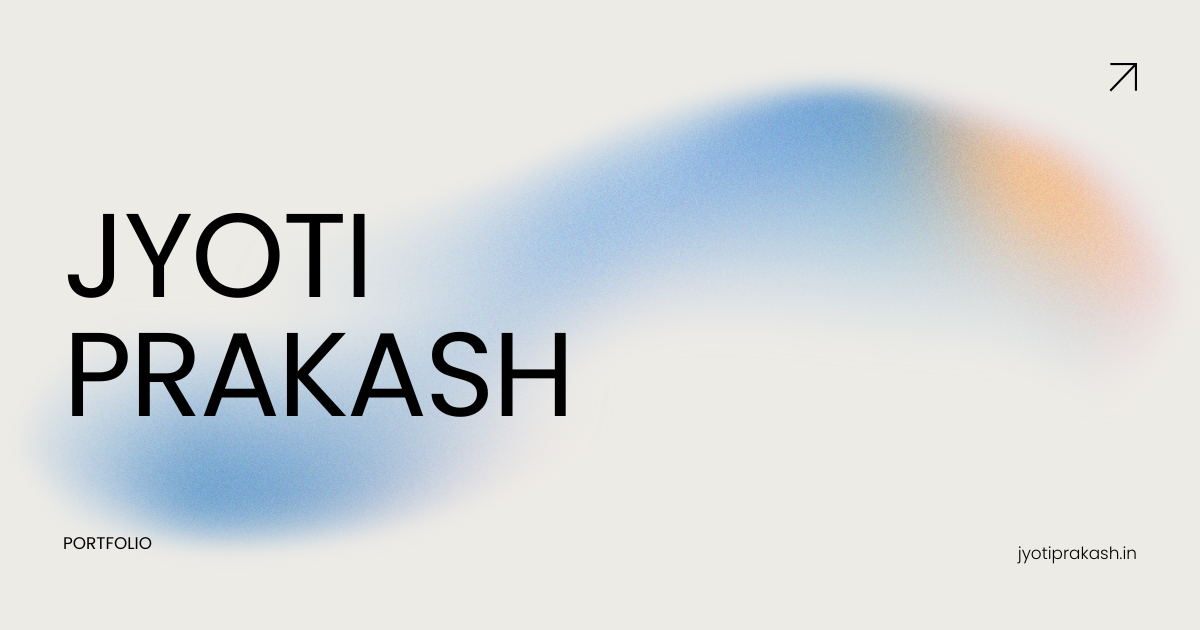
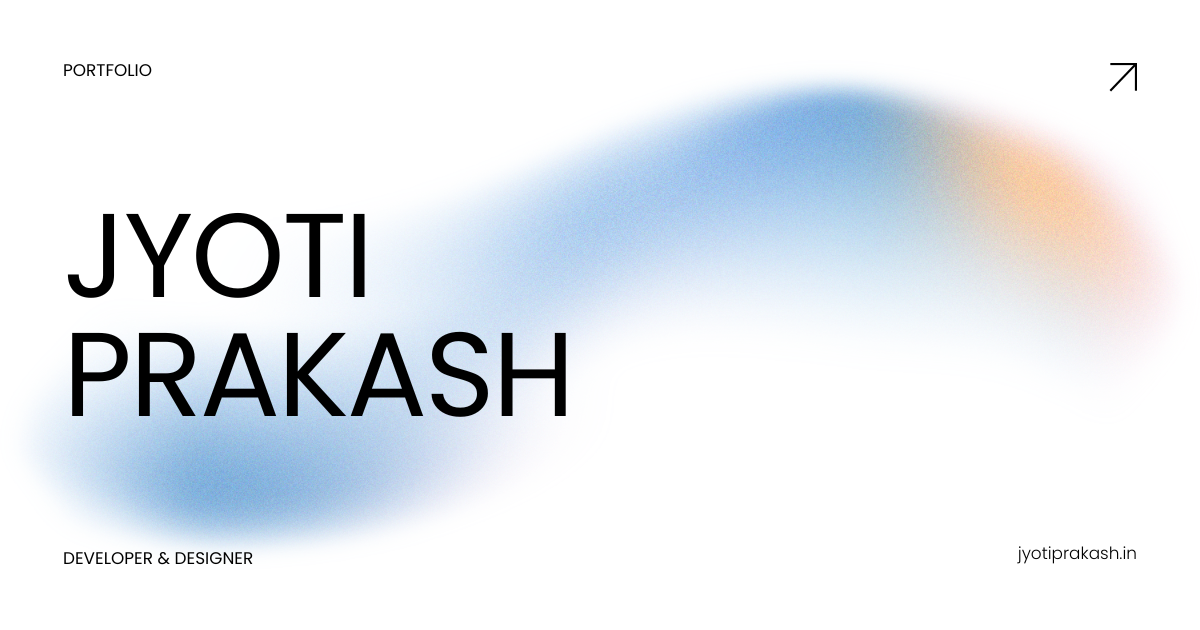
fix: update theme and apiversion

diff --git a/src/app/globals.css b/src/app/globals.css
@@ -109,99 +109,99 @@
 
 @layer base {
   :root {
-    --background: 55.0000 30.0000% 92.1569%;
-    --foreground: 15 7.8431% 20%;
-    --card: 55.0000 30.0000% 92.1569%;
-    --card-foreground: 15 7.8431% 20%;
+    --background: 0 0% 97.6471%;
+    --foreground: 0 0% 6.6667%;
+    --card: 0 0% 100%;
+    --card-foreground: 0 0% 6.6667%;
     --popover: 0 0% 100%;
-    --popover-foreground: 15 7.8431% 20%;
-    --primary: 18.0952 25.5061% 51.5686%;
-    --primary-foreground: 0 0% 100%;
-    --secondary: 37.5000 6.9565% 54.9020%;
-    --secondary-foreground: 0 0% 100%;
-    --muted: 20.4545 44.8980% 80.7843%;
-    --muted-foreground: 14.4000 11.9617% 40.9804%;
-    --accent: 20.4545 44.8980% 80.7843%;
-    --accent-foreground: 15 7.8431% 20%;
-    --destructive: 22.5000 14.8148% 10.5882%;
-    --destructive-foreground: 0 0% 100%;
-    --border: 37.5000 6.9565% 54.9020%;
-    --input: 37.5000 6.9565% 54.9020%;
-    --ring: 18.0952 25.5061% 51.5686%;
-    --chart-1: 18.0952 25.5061% 51.5686%;
-    --chart-2: 14.4000 11.9617% 40.9804%;
-    --chart-3: 22.3729 32.9609% 64.9020%;
-    --chart-4: 37.5000 6.9565% 54.9020%;
-    --chart-5: 22.3256 18.7773% 55.0980%;
-    --sidebar: 20.6250 44.4444% 85.8824%;
-    --sidebar-foreground: 15 7.8431% 20%;
-    --sidebar-primary: 18.0952 25.5061% 51.5686%;
-    --sidebar-primary-foreground: 0 0% 100%;
-    --sidebar-accent: 22.3729 32.9609% 64.9020%;
-    --sidebar-accent-foreground: 0 0% 100%;
-    --sidebar-border: 22.3256 18.7773% 55.0980%;
-    --sidebar-ring: 18.0952 25.5061% 51.5686%;
-    --font-sans: DM Sans, sans-serif;
-    --font-serif: Georgia, serif;
-    --font-mono: Menlo, monospace;
+    --popover-foreground: 0 0% 6.6667%;
+    --primary: 0 0% 6.6667%;
+    --primary-foreground: 0 0% 97.6471%;
+    --secondary: 0 0% 91.7647%;
+    --secondary-foreground: 0 0% 6.6667%;
+    --muted: 0 0% 94.1176%;
+    --muted-foreground: 0 0% 33.3333%;
+    --accent: 0 0% 91.7647%;
+    --accent-foreground: 0 0% 6.6667%;
+    --destructive: 358.0892 75.1196% 59.0196%;
+    --destructive-foreground: 0 0% 97.6471%;
+    --border: 0 0% 87.8431%;
+    --input: 0 0% 87.8431%;
+    --ring: 0 0% 6.6667%;
+    --chart-1: 0 0% 6.6667%;
+    --chart-2: 0 0% 33.3333%;
+    --chart-3: 0 0% 53.3333%;
+    --chart-4: 0 0% 73.3333%;
+    --chart-5: 0 0% 86.6667%;
+    --sidebar: 0 0% 94.1176%;
+    --sidebar-foreground: 0 0% 6.6667%;
+    --sidebar-primary: 0 0% 6.6667%;
+    --sidebar-primary-foreground: 0 0% 97.6471%;
+    --sidebar-accent: 0 0% 86.6667%;
+    --sidebar-accent-foreground: 0 0% 6.6667%;
+    --sidebar-border: 0 0% 87.8431%;
+    --sidebar-ring: 0 0% 6.6667%;
+    --font-sans: Inter, sans-serif;
+    --font-serif: Lora, serif;
+    --font-mono: Fira Code, monospace;
     --radius: 0.5rem;
-    --shadow-2xs: 2px 2px 0px 0px hsl(14.4000 11.9617% 40.9804% / 0.06);
-    --shadow-xs: 2px 2px 0px 0px hsl(14.4000 11.9617% 40.9804% / 0.06);
-    --shadow-sm: 2px 2px 0px 0px hsl(14.4000 11.9617% 40.9804% / 0.11), 2px 1px 2px -1px hsl(14.4000 11.9617% 40.9804% / 0.11);
-    --shadow: 2px 2px 0px 0px hsl(14.4000 11.9617% 40.9804% / 0.11), 2px 1px 2px -1px hsl(14.4000 11.9617% 40.9804% / 0.11);
-    --shadow-md: 2px 2px 0px 0px hsl(14.4000 11.9617% 40.9804% / 0.11), 2px 2px 4px -1px hsl(14.4000 11.9617% 40.9804% / 0.11);
-    --shadow-lg: 2px 2px 0px 0px hsl(14.4000 11.9617% 40.9804% / 0.11), 2px 4px 6px -1px hsl(14.4000 11.9617% 40.9804% / 0.11);
-    --shadow-xl: 2px 2px 0px 0px hsl(14.4000 11.9617% 40.9804% / 0.11), 2px 8px 10px -1px hsl(14.4000 11.9617% 40.9804% / 0.11);
-    --shadow-2xl: 2px 2px 0px 0px hsl(14.4000 11.9617% 40.9804% / 0.28);
+    --shadow-2xs: 0px 4px 8px -2px hsl(0 0% 0% / 0.03);
+    --shadow-xs: 0px 4px 8px -2px hsl(0 0% 0% / 0.03);
+    --shadow-sm: 0px 4px 8px -2px hsl(0 0% 0% / 0.05), 0px 1px 2px -3px hsl(0 0% 0% / 0.05);
+    --shadow: 0px 4px 8px -2px hsl(0 0% 0% / 0.05), 0px 1px 2px -3px hsl(0 0% 0% / 0.05);
+    --shadow-md: 0px 4px 8px -2px hsl(0 0% 0% / 0.05), 0px 2px 4px -3px hsl(0 0% 0% / 0.05);
+    --shadow-lg: 0px 4px 8px -2px hsl(0 0% 0% / 0.05), 0px 4px 6px -3px hsl(0 0% 0% / 0.05);
+    --shadow-xl: 0px 4px 8px -2px hsl(0 0% 0% / 0.05), 0px 8px 10px -3px hsl(0 0% 0% / 0.05);
+    --shadow-2xl: 0px 4px 8px -2px hsl(0 0% 0% / 0.13);
     --tracking-normal: 0em;
     --spacing: 0.25rem;
   }
 
   .dark {
-    --background: 22.5000 14.8148% 10.5882%;
-    --foreground: 55.0000 30.0000% 92.1569%;
-    --card: 20 15.3846% 15.2941%;
-    --card-foreground: 55.0000 30.0000% 92.1569%;
-    --popover: 20 15.3846% 15.2941%;
-    --popover-foreground: 55.0000 30.0000% 92.1569%;
-    --primary: 22.3729 32.9609% 64.9020%;
-    --primary-foreground: 22.5000 14.8148% 10.5882%;
-    --secondary: 14.4000 11.9617% 40.9804%;
-    --secondary-foreground: 55.0000 30.0000% 92.1569%;
-    --muted: 21.4286 13.2075% 20.7843%;
-    --muted-foreground: 21.4286 26.5823% 69.0196%;
-    --accent: 15 7.8431% 20%;
-    --accent-foreground: 55.0000 30.0000% 92.1569%;
-    --destructive: 0 68.6747% 67.4510%;
-    --destructive-foreground: 22.5000 14.8148% 10.5882%;
-    --border: 21.4286 13.2075% 20.7843%;
-    --input: 21.4286 13.2075% 20.7843%;
-    --ring: 22.3729 32.9609% 64.9020%;
-    --chart-1: 22.3729 32.9609% 64.9020%;
-    --chart-2: 37.5000 6.9565% 54.9020%;
-    --chart-3: 18.0952 25.5061% 51.5686%;
-    --chart-4: 14.4000 11.9617% 40.9804%;
-    --chart-5: 22.3256 18.7773% 55.0980%;
-    --sidebar: 24 14.2857% 6.8627%;
-    --sidebar-foreground: 55.0000 30.0000% 92.1569%;
-    --sidebar-primary: 22.3729 32.9609% 64.9020%;
-    --sidebar-primary-foreground: 24 14.2857% 6.8627%;
-    --sidebar-accent: 15 7.8431% 20%;
-    --sidebar-accent-foreground: 55.0000 30.0000% 92.1569%;
-    --sidebar-border: 20 15.3846% 15.2941%;
-    --sidebar-ring: 22.3729 32.9609% 64.9020%;
-    --font-sans: DM Sans, sans-serif;
-    --font-serif: Georgia, serif;
-    --font-mono: Menlo, monospace;
+    --background: 0 0% 6.6667%;
+    --foreground: 0 0% 97.6471%;
+    --card: 0 0% 9.8039%;
+    --card-foreground: 0 0% 97.6471%;
+    --popover: 0 0% 9.8039%;
+    --popover-foreground: 0 0% 97.6471%;
+    --primary: 0 0% 97.6471%;
+    --primary-foreground: 0 0% 6.6667%;
+    --secondary: 0 0% 16.4706%;
+    --secondary-foreground: 0 0% 97.6471%;
+    --muted: 0 0% 13.3333%;
+    --muted-foreground: 0 0% 66.6667%;
+    --accent: 0 0% 16.4706%;
+    --accent-foreground: 0 0% 97.6471%;
+    --destructive: 358.0892 75.1196% 59.0196%;
+    --destructive-foreground: 0 0% 6.6667%;
+    --border: 0 0% 20%;
+    --input: 0 0% 20%;
+    --ring: 0 0% 97.6471%;
+    --chart-1: 0 0% 97.6471%;
+    --chart-2: 0 0% 66.6667%;
+    --chart-3: 0 0% 53.3333%;
+    --chart-4: 0 0% 33.3333%;
+    --chart-5: 0 0% 20%;
+    --sidebar: 0 0% 9.8039%;
+    --sidebar-foreground: 0 0% 97.6471%;
+    --sidebar-primary: 0 0% 97.6471%;
+    --sidebar-primary-foreground: 0 0% 6.6667%;
+    --sidebar-accent: 0 0% 20%;
+    --sidebar-accent-foreground: 0 0% 97.6471%;
+    --sidebar-border: 0 0% 16.4706%;
+    --sidebar-ring: 0 0% 97.6471%;
+    --font-sans: Inter, sans-serif;
+    --font-serif: Lora, serif;
+    --font-mono: Fira Code, monospace;
     --radius: 0.5rem;
-    --shadow-2xs: 2px 2px 0px 0px hsl(0 0% 0% / 0.06);
-    --shadow-xs: 2px 2px 0px 0px hsl(0 0% 0% / 0.06);
-    --shadow-sm: 2px 2px 0px 0px hsl(0 0% 0% / 0.11), 2px 1px 2px -1px hsl(0 0% 0% / 0.11);
-    --shadow: 2px 2px 0px 0px hsl(0 0% 0% / 0.11), 2px 1px 2px -1px hsl(0 0% 0% / 0.11);
-    --shadow-md: 2px 2px 0px 0px hsl(0 0% 0% / 0.11), 2px 2px 4px -1px hsl(0 0% 0% / 0.11);
-    --shadow-lg: 2px 2px 0px 0px hsl(0 0% 0% / 0.11), 2px 4px 6px -1px hsl(0 0% 0% / 0.11);
-    --shadow-xl: 2px 2px 0px 0px hsl(0 0% 0% / 0.11), 2px 8px 10px -1px hsl(0 0% 0% / 0.11);
-    --shadow-2xl: 2px 2px 0px 0px hsl(0 0% 0% / 0.28);
+    --shadow-2xs: 0px 5px 10px -3px hsl(0 0% 0% / 0.10);
+    --shadow-xs: 0px 5px 10px -3px hsl(0 0% 0% / 0.10);
+    --shadow-sm: 0px 5px 10px -3px hsl(0 0% 0% / 0.20), 0px 1px 2px -4px hsl(0 0% 0% / 0.20);
+    --shadow: 0px 5px 10px -3px hsl(0 0% 0% / 0.20), 0px 1px 2px -4px hsl(0 0% 0% / 0.20);
+    --shadow-md: 0px 5px 10px -3px hsl(0 0% 0% / 0.20), 0px 2px 4px -4px hsl(0 0% 0% / 0.20);
+    --shadow-lg: 0px 5px 10px -3px hsl(0 0% 0% / 0.20), 0px 4px 6px -4px hsl(0 0% 0% / 0.20);
+    --shadow-xl: 0px 5px 10px -3px hsl(0 0% 0% / 0.20), 0px 8px 10px -4px hsl(0 0% 0% / 0.20);
+    --shadow-2xl: 0px 5px 10px -3px hsl(0 0% 0% / 0.50);
   }
 }
 

diff --git a/src/components/about.tsx b/src/components/about.tsx
@@ -23,7 +23,7 @@ export default async function About() {
     const personalInfo: PersonalInfo = await client.fetch(personalInfoQuery);
 
     if (!personalInfo) {
-        return <div>Personal information not found.</div>;
+        return <div>Umm Sorry something went wrong...</div>;
     }
 
     return (
@@ -33,8 +33,8 @@ export default async function About() {
                     className="absolute inset-[-2rem] z-[-1] dark:hidden -translate-x-6"
                     style={{
                         backgroundImage: `
-                                    linear-gradient(to right,rgb(212, 210, 205) 1px, transparent 1px),
-                                    linear-gradient(to bottom,rgb(212, 210, 205) 1px, transparent 1px)
+                                    linear-gradient(to right,rgb(187, 187, 187) 1px, transparent 1px),
+                                    linear-gradient(to bottom,rgb(187, 187, 187) 1px, transparent 1px)
                                 `,
                         backgroundSize: "32px 32px",
                         WebkitMaskImage:
@@ -47,8 +47,8 @@ export default async function About() {
                     className="absolute inset-[-2rem] z-[-1] hidden dark:block"
                     style={{
                         backgroundImage: `
-                                    linear-gradient(to right, #56453F 1px, transparent 1px),
-                                    linear-gradient(to bottom, #56453F 1px, transparent 1px)
+                                    linear-gradient(to right,rgb(66, 66, 66) 1px, transparent 1px),
+                                    linear-gradient(to bottom,rgb(66, 66, 66) 1px, transparent 1px)
                                 `,
                         backgroundSize: "32px 32px",
                         WebkitMaskImage:
@@ -60,15 +60,15 @@ export default async function About() {
                 <div className="flex flex-col md:flex-row items-start justify-between gap-8">
                     {/* Text content on the left */}
                     <div className="text-left">
-                        <h1 className="text-4xl font-bold text-accent-foreground">{personalInfo.name}</h1>
-                        <p className="mt-1 text-lg text-muted-foreground">{personalInfo.designation}</p>
+                        <h1 className="text-5xl text-accent-foreground">{personalInfo.name}</h1>
+                        <p className="mt-1 text-xl text-muted-foreground">{personalInfo.designation}</p>
                         <p className="text-sm text-muted-foreground">{personalInfo.address}</p>
                     </div>
 
                     {/* Profile picture section on the right */}
                     {personalInfo.profilePic && (
                         <div className="relative mt-4 md:mt-0 flex-shrink-0 hidden md:block">
-                            <div className="w-16 h-16 md:w-20 md:h-20 rounded-lg overflow-hidden border-2 border-accent-foreground/10 hover:border-accent-foreground/30 transition-all duration-300">
+                            <div className="w-16 h-16 md:w-24 md:h-24 -mt-2 rounded-lg overflow-hidden border-2 border-accent-foreground/10 hover:border-accent-foreground/30 transition-all duration-300 grayscale-[50%] hover:grayscale-0">
                                 <Image
                                     src={urlFor(personalInfo.profilePic).url()}
                                     alt={personalInfo.name}
@@ -83,7 +83,7 @@ export default async function About() {
             </div>
 
             {/* Rest of your component */}
-            <div className="prose max-w-none text-sm text-accent-foreground mt-6"> {/* Increased margin-top */}
+            <div className="prose max-w-none text-base text-muted-foreground mt-6"> {/* Increased margin-top */}
                 <PortableText value={personalInfo.description} />
             </div>
 

diff --git a/src/components/projects.tsx b/src/components/projects.tsx
@@ -32,16 +32,16 @@ export default async function Projects() {
 
     return (
         <section className="py-6" id="projects">
-            <h2 className="text-2xl font-bold mb-4 text-foreground">Projects</h2>
+            <h2 className="text-4xl font-medium mb-4 text-foreground">Projects</h2>
             <div className="space-y-4">
                 {projects.map((project) => (
                     <div 
                         key={project._id}
-                        className="border rounded-lg p-4 hover:shadow-sm transition-shadow duration-200 border-border"
+                        className="border-b py-4 hover:shadow-sm transition-shadow duration-200 border-border"
                     >
-                        <div className="flex flex-col gap-2">
+                        <div className="flex flex-col gap-1">
                             <div className="flex items-center gap-2">
-                                <h3 className="text-lg font-semibold text-foreground">
+                                <h3 className="text-lg font-base text-foreground">
                                     {project.title}
                                 </h3>
                                 {project.featured && (
@@ -75,7 +75,7 @@ export default async function Projects() {
                         </div>
 
                         {/* 3. Improved Links with Group Hover Effect */}
-                        <div className="mt-3 flex gap-4 text-xs">
+                        <div className="mt-6 flex gap-4 text-xs">
                             {project.github && (
                                 <a
                                     href={project.github}

diff --git a/src/components/experiences.tsx b/src/components/experiences.tsx
@@ -28,17 +28,17 @@ export default async function Experiences() {
 
     return (
         <section className="py-8 flex flex-col justify-center min-h-[calc(100vh-11rem)]" id="experiences">
-            <h2 className="text-2xl font-bold mb-6 text-foreground">Experience</h2>
+            <h2 className="text-4xl font-medium mb-6 text-foreground">Experience</h2>
             <div className="space-y-6">
                 {experiences.map((exp) => (
                     <div
                         key={exp._id}
-                        className="hover:shadow-sm transition-shadow duration-200"
+                        className="border-b py-4 transition-shadow duration-200 border-border"
                     >
                         <div className="flex items-start">
                             <div className="flex-1">
                                 <div className="flex flex-col sm:flex-row sm:items-center sm:justify-between gap-1">
-                                    <h3 className="text-lg font-semibold text-foreground">
+                                    <h3 className="text-xl font-medium text-foreground">
                                         {exp.title}
                                     </h3>
                                     <div className="flex items-center gap-2 text-sm text-muted-foreground">

diff --git a/src/components/footer.tsx b/src/components/footer.tsx
@@ -2,7 +2,7 @@ import React from 'react'
 
 const Footer = () => {
   return (
-    <div className="p-6 text-accent-foreground font-light flex justify-center gap-2">
+    <div className="p-6 text-accent-foreground font-light flex justify-center gap-2 mt-12">
       <div className='flex flex-col items-center'>
         <div>
           <span className='font-semibold text-sm'>Jyoti Prakash Panda </span> © {new Date().getFullYear()}

diff --git a/src/sanity/env.ts b/src/sanity/env.ts
@@ -1,5 +1,5 @@
 export const apiVersion =
-  process.env.NEXT_PUBLIC_SANITY_API_VERSION || '2024-09-07'
+  process.env.NEXT_PUBLIC_SANITY_API_VERSION || '2025-09-17'
 
 export const dataset = assertValue(
   "production",
